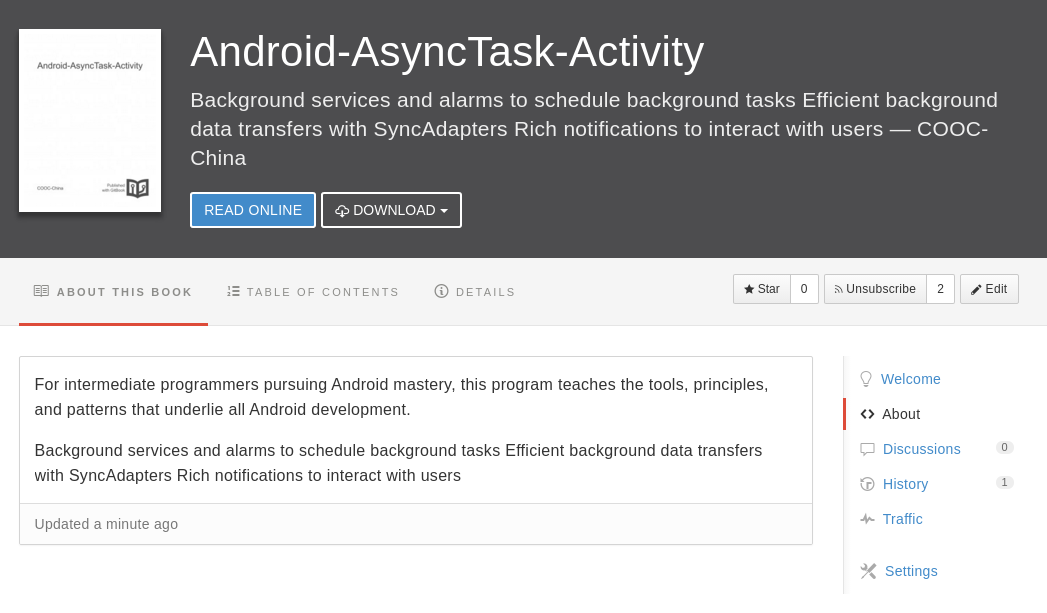
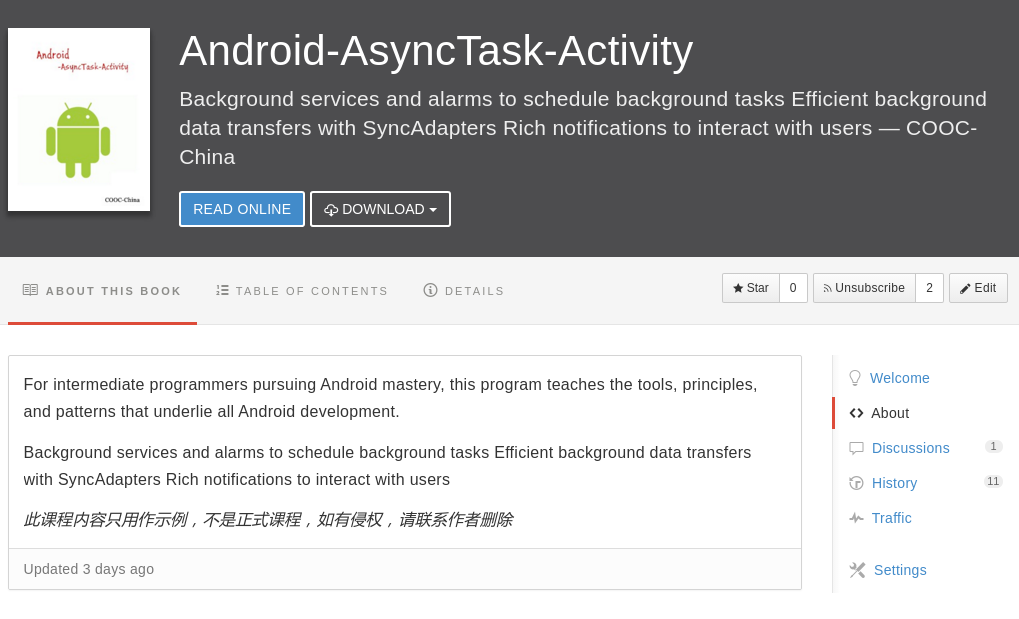
update book image

diff --git a/_includes/footer.html b/_includes/footer.html
@@ -2,7 +2,7 @@
     <div class="row">
         <div class="col-md-12">
             <p class="text-center">
-            	<span class="text-info">Cooperate Open Online Course - 合作在线开放课程</span>&nbsp;© 2015 COOC China, All rights reserved.
+            	<span class="text-info">Cooperation Open Online Course - 合作在线开放课程</span>&nbsp;© 2015 COOC China, All rights reserved.
             </p>
 
             <p class="text-center">

diff --git a/about.md b/about.md
@@ -4,4 +4,10 @@ title: 关于我们
 permalink: /about/
 ---
 
-### Cooperate Open Online Course - 合作在线开放课程
+### Cooperation Open Online Course - 合作在线开放课程
+
+COOC（Cooperation Open Online Courses，合作开放在线课堂），是采用众包的理念，使教师、行业精英以及学生共同创建课程，
+包括以合作为核心的课程建设体系、开放共享的教材以及在线实验平台。
+
+为了最大限度的传播课程，所有人可以自由浏览、下载、使用COOC平台的所有课程。课程建设体系以GitHub为核心，实现多点对多点的在
+线课程建设模式。教材编写及修改以GitBook为核心，实现开源教材以及教材的快速更新。共同创作过程遵守CC BY-SA协议。
